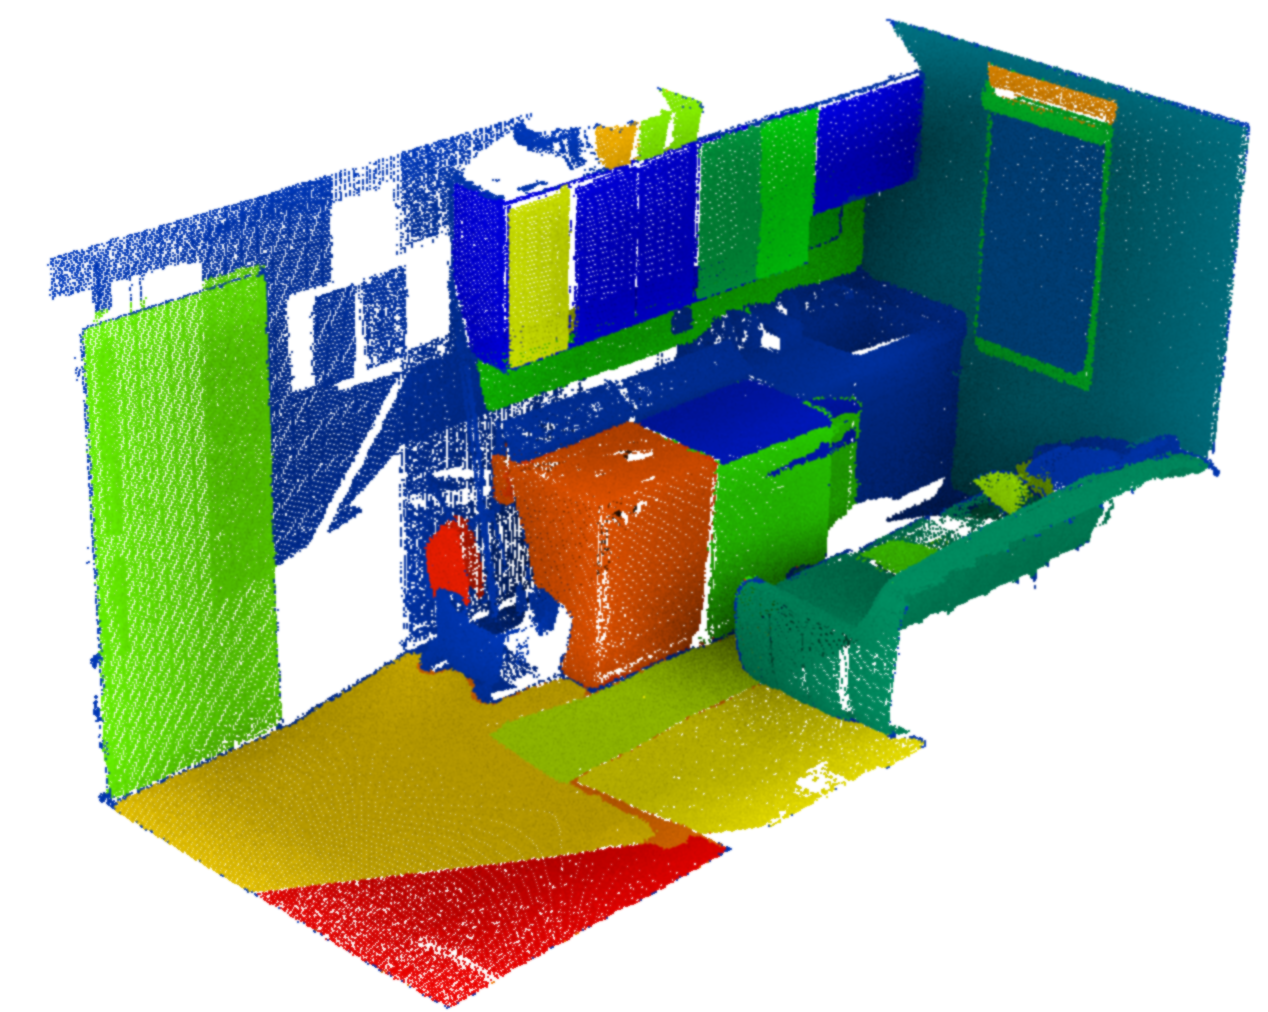
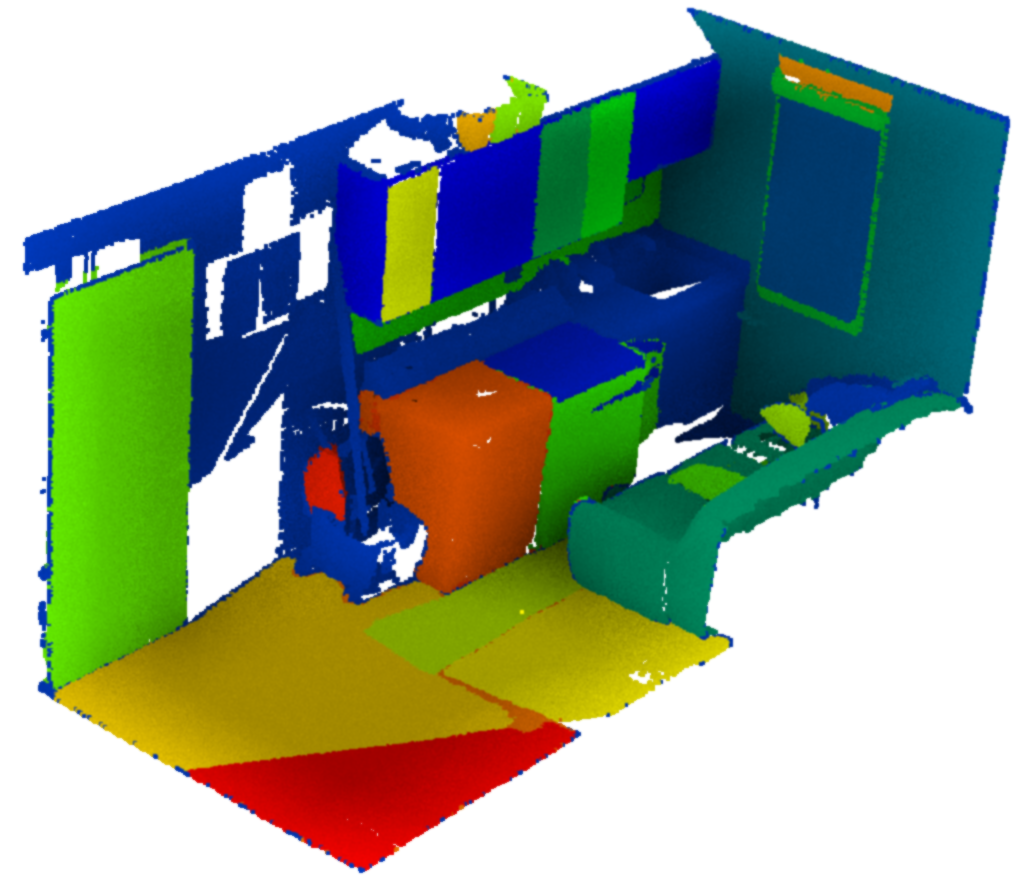
Paper 27-11-2023

diff --git a/paper/paper.md b/paper/paper.md
@@ -140,7 +140,7 @@ In the final step of our methodology, we seamlessly reproject the instance segme
 
 ![Top view results.\label{fig:top_results}](figures/top_results.png)
 
-![Pinhole Camera view results.\label{fig:pinhole_results}](figures/pinhole_results.png){ width=70% }
+![Pinhole Camera view results.\label{fig:pinhole_results}](figures/pinhole_results.png){ width=60% }
 
 # Use of the package
 
